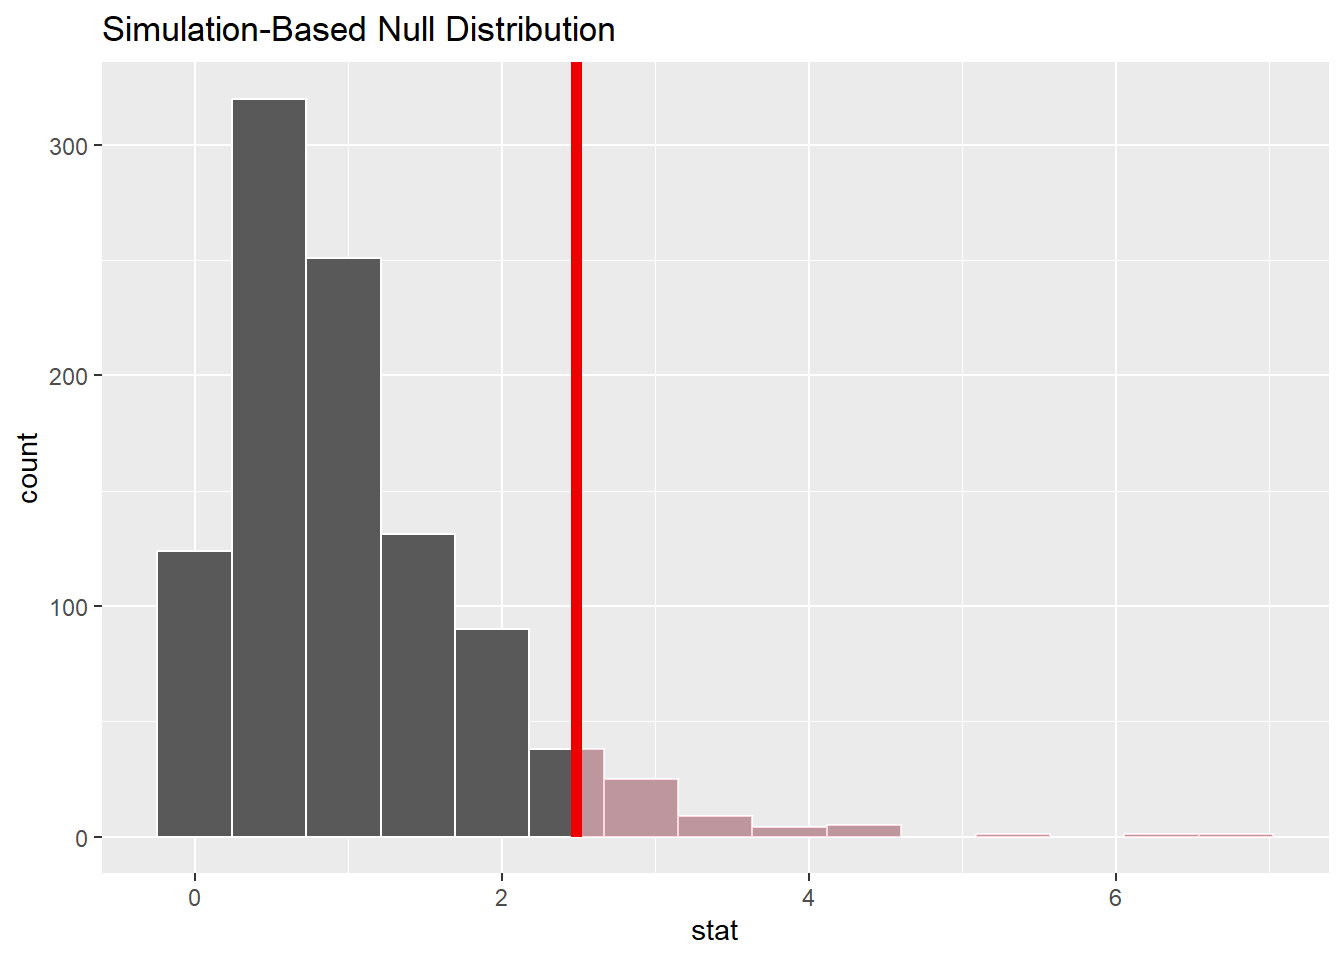
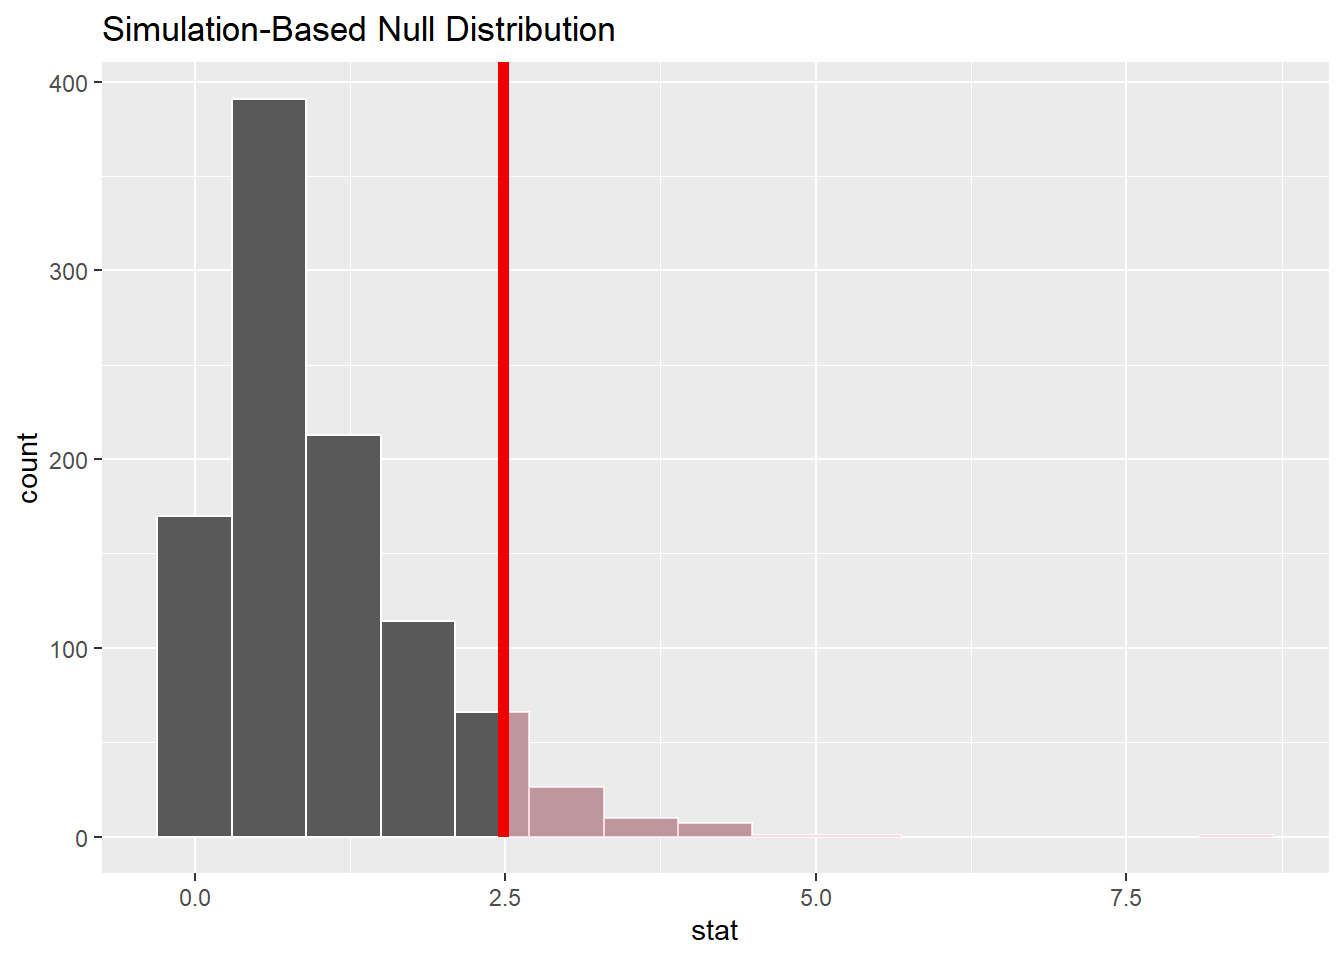
Ajout modèle théorique au lab10

diff --git a/docs/labs/lab10-tests-hypotheses/lab10-tests-hypotheses.html b/docs/labs/lab10-tests-hypotheses/lab10-tests-hypotheses.html
@@ -273,6 +273,7 @@ window.Quarto = {
   <ul class="collapse">
   <li><a href="#exercice-2" id="toc-exercice-2" class="nav-link" data-scroll-target="#exercice-2">Exercice</a></li>
   </ul></li>
+  <li><a href="#modèles-théoriques" id="toc-modèles-théoriques" class="nav-link" data-scroll-target="#modèles-théoriques">Modèles théoriques</a></li>
   <li><a href="#exercice---effet-de-la-cigarette-sur-la-grossesse" id="toc-exercice---effet-de-la-cigarette-sur-la-grossesse" class="nav-link" data-scroll-target="#exercice---effet-de-la-cigarette-sur-la-grossesse">Exercice - Effet de la cigarette sur la grossesse</a>
   <ul class="collapse">
   <li><a href="#les-données" id="toc-les-données" class="nav-link" data-scroll-target="#les-données">Les données</a></li>
@@ -412,16 +413,16 @@ Null Hypothesis: point
 # Groups:   replicate [1,000]
    replicate hours
        &lt;int&gt; &lt;dbl&gt;
- 1         1  18.6
- 2         1  42.6
- 3         1  25.6
- 4         1  13.6
- 5         1  33.6
- 6         1  38.6
- 7         1  86.6
- 8         1  38.6
- 9         1  30.6
-10         1  38.6
+ 1         1 37.6 
+ 2         1 68.6 
+ 3         1  2.62
+ 4         1 12.6 
+ 5         1 38.6 
+ 6         1 43.6 
+ 7         1 38.6 
+ 8         1 33.6 
+ 9         1 48.6 
+10         1 38.6 
 # ℹ 499,990 more rows</code></pre>
 </div>
 </div>
@@ -439,16 +440,16 @@ Null Hypothesis: point
 # A tibble: 1,000 × 2
    replicate  stat
        &lt;int&gt; &lt;dbl&gt;
- 1         1  40.8
- 2         2  39.7
- 3         3  39.1
- 4         4  39.9
- 5         5  40.4
- 6         6  40.1
- 7         7  40.5
- 8         8  38.5
- 9         9  40.6
-10        10  40.9
+ 1         1  40.3
+ 2         2  40.7
+ 3         3  40.3
+ 4         4  41.2
+ 5         5  40.3
+ 6         6  40.3
+ 7         7  40.8
+ 8         8  40.0
+ 9         9  40.1
+10        10  40.2
 # ℹ 990 more rows</code></pre>
 </div>
 </div>
@@ -502,7 +503,7 @@ Null Hypothesis: point
 <pre><code># A tibble: 1 × 1
   p_value
     &lt;dbl&gt;
-1    0.04</code></pre>
+1    0.03</code></pre>
 </div>
 </div>
 <p>Avant de faire ce test, nous aurions du définir un niveau de signification <span class="math inline">\(\alpha\)</span>. Si la valeur <span class="math inline">\(p\)</span> est inférieure à <span class="math inline">\(\alpha\)</span>, nous pouvons rejeter l’hypothèse nulle. En fixant <span class="math inline">\(\alpha = 0.05\)</span>, nous rejetons l’hypothèse nulle. En fixant <span class="math inline">\(\alpha = 0.01\)</span>, nous ne rejetons pas l’hypothèse nulle.</p>
@@ -529,7 +530,7 @@ Null Hypothesis: point
 <pre><code># A tibble: 1 × 2
   lower_ci upper_ci
      &lt;dbl&gt;    &lt;dbl&gt;
-1     40.1     42.7</code></pre>
+1     40.1     42.6</code></pre>
 </div>
 </div>
 <p>Ici, notez que dans la définition de <code>boot_dist</code>, nous n’avons pas défini d’hypothèse nulle. Cela signifie que nous générons une distribution de statistiques à partir de nos données sans hypothèse nulle. Nous utilisons ensuite cette distribution pour calculer l’intervalle de confiance.</p>
@@ -641,7 +642,7 @@ Explanatory: college (factor)
 <pre><code># A tibble: 1 × 1
   p_value
     &lt;dbl&gt;
-1   0.248</code></pre>
+1    0.26</code></pre>
 </div>
 </div>
 <section id="exercice-1" class="level2">
@@ -705,20 +706,15 @@ Explanatory: partyid (factor)
 <div class="cell">
 <div class="sourceCode cell-code" id="cb32"><pre class="sourceCode r code-with-copy"><code class="sourceCode r"><span id="cb32-1"><a href="#cb32-1" aria-hidden="true" tabindex="-1"></a>observed_f_statistic <span class="ot">&lt;-</span> gss <span class="sc">%&gt;%</span></span>
 <span id="cb32-2"><a href="#cb32-2" aria-hidden="true" tabindex="-1"></a>  <span class="fu">specify</span>(age <span class="sc">~</span> partyid) <span class="sc">%&gt;%</span></span>
-<span id="cb32-3"><a href="#cb32-3" aria-hidden="true" tabindex="-1"></a>  <span class="fu">hypothesize</span>(<span class="at">null =</span> <span class="st">"independence"</span>) <span class="sc">%&gt;%</span></span>
-<span id="cb32-4"><a href="#cb32-4" aria-hidden="true" tabindex="-1"></a>  <span class="fu">calculate</span>(<span class="at">stat =</span> <span class="st">"F"</span>)</span></code><button title="Copy to Clipboard" class="code-copy-button"><i class="bi"></i></button></pre></div>
-<div class="cell-output cell-output-stderr">
-<pre><code>Dropping unused factor levels DK from the supplied explanatory variable
-'partyid'.</code></pre>
-</div>
+<span id="cb32-3"><a href="#cb32-3" aria-hidden="true" tabindex="-1"></a>  <span class="fu">calculate</span>(<span class="at">stat =</span> <span class="st">"F"</span>)</span></code><button title="Copy to Clipboard" class="code-copy-button"><i class="bi"></i></button></pre></div>
 </div>
 <p>Nous voulons maintenant la comparer à celle obtenue sous l’hypothèse nulle. Dans un tableau ANOVA, l’hypothèse nulle est que les moyennes de chaque groupe sont égales. Faites à attention que dans ce cas, l’hypothèse alternative est <strong>qu’au moins une des moyennes est différente</strong>.</p>
 <div class="cell">
-<div class="sourceCode cell-code" id="cb34"><pre class="sourceCode r code-with-copy"><code class="sourceCode r"><span id="cb34-1"><a href="#cb34-1" aria-hidden="true" tabindex="-1"></a>null_dist_anova <span class="ot">&lt;-</span> gss <span class="sc">%&gt;%</span></span>
-<span id="cb34-2"><a href="#cb34-2" aria-hidden="true" tabindex="-1"></a>  <span class="fu">specify</span>(age <span class="sc">~</span> partyid) <span class="sc">%&gt;%</span></span>
-<span id="cb34-3"><a href="#cb34-3" aria-hidden="true" tabindex="-1"></a>  <span class="fu">hypothesize</span>(<span class="at">null =</span> <span class="st">"independence"</span>) <span class="sc">%&gt;%</span></span>
-<span id="cb34-4"><a href="#cb34-4" aria-hidden="true" tabindex="-1"></a>  <span class="fu">generate</span>(<span class="at">reps =</span> <span class="dv">1000</span>, <span class="at">type =</span> <span class="st">"permute"</span>) <span class="sc">%&gt;%</span></span>
-<span id="cb34-5"><a href="#cb34-5" aria-hidden="true" tabindex="-1"></a>  <span class="fu">calculate</span>(<span class="at">stat =</span> <span class="st">"F"</span>)</span></code><button title="Copy to Clipboard" class="code-copy-button"><i class="bi"></i></button></pre></div>
+<div class="sourceCode cell-code" id="cb33"><pre class="sourceCode r code-with-copy"><code class="sourceCode r"><span id="cb33-1"><a href="#cb33-1" aria-hidden="true" tabindex="-1"></a>null_dist_anova <span class="ot">&lt;-</span> gss <span class="sc">%&gt;%</span></span>
+<span id="cb33-2"><a href="#cb33-2" aria-hidden="true" tabindex="-1"></a>  <span class="fu">specify</span>(age <span class="sc">~</span> partyid) <span class="sc">%&gt;%</span></span>
+<span id="cb33-3"><a href="#cb33-3" aria-hidden="true" tabindex="-1"></a>  <span class="fu">hypothesize</span>(<span class="at">null =</span> <span class="st">"independence"</span>) <span class="sc">%&gt;%</span></span>
+<span id="cb33-4"><a href="#cb33-4" aria-hidden="true" tabindex="-1"></a>  <span class="fu">generate</span>(<span class="at">reps =</span> <span class="dv">1000</span>, <span class="at">type =</span> <span class="st">"permute"</span>) <span class="sc">%&gt;%</span></span>
+<span id="cb33-5"><a href="#cb33-5" aria-hidden="true" tabindex="-1"></a>  <span class="fu">calculate</span>(<span class="at">stat =</span> <span class="st">"F"</span>)</span></code><button title="Copy to Clipboard" class="code-copy-button"><i class="bi"></i></button></pre></div>
 <div class="cell-output cell-output-stderr">
 <pre><code>Dropping unused factor levels DK from the supplied explanatory variable
 'partyid'.</code></pre>
@@ -726,10 +722,10 @@ Explanatory: partyid (factor)
 </div>
 <p>Nous pouvons maintenant visualiser la distribution des statistiques générées et calculées.</p>
 <div class="cell">
-<div class="sourceCode cell-code" id="cb36"><pre class="sourceCode r code-with-copy"><code class="sourceCode r"><span id="cb36-1"><a href="#cb36-1" aria-hidden="true" tabindex="-1"></a>null_dist_anova <span class="sc">%&gt;%</span></span>
-<span id="cb36-2"><a href="#cb36-2" aria-hidden="true" tabindex="-1"></a>  <span class="fu">visualize</span>() <span class="sc">+</span> </span>
-<span id="cb36-3"><a href="#cb36-3" aria-hidden="true" tabindex="-1"></a>  <span class="fu">shade_p_value</span>(observed_f_statistic,</span>
-<span id="cb36-4"><a href="#cb36-4" aria-hidden="true" tabindex="-1"></a>                <span class="at">direction =</span> <span class="st">"greater"</span>)</span></code><button title="Copy to Clipboard" class="code-copy-button"><i class="bi"></i></button></pre></div>
+<div class="sourceCode cell-code" id="cb35"><pre class="sourceCode r code-with-copy"><code class="sourceCode r"><span id="cb35-1"><a href="#cb35-1" aria-hidden="true" tabindex="-1"></a>null_dist_anova <span class="sc">%&gt;%</span></span>
+<span id="cb35-2"><a href="#cb35-2" aria-hidden="true" tabindex="-1"></a>  <span class="fu">visualize</span>() <span class="sc">+</span> </span>
+<span id="cb35-3"><a href="#cb35-3" aria-hidden="true" tabindex="-1"></a>  <span class="fu">shade_p_value</span>(observed_f_statistic,</span>
+<span id="cb35-4"><a href="#cb35-4" aria-hidden="true" tabindex="-1"></a>                <span class="at">direction =</span> <span class="st">"greater"</span>)</span></code><button title="Copy to Clipboard" class="code-copy-button"><i class="bi"></i></button></pre></div>
 <div class="cell-output-display">
 <div>
 <figure class="figure">
@@ -740,23 +736,59 @@ Explanatory: partyid (factor)
 </div>
 <p>Et nous pouvons calculer la p-value:</p>
 <div class="cell">
-<div class="sourceCode cell-code" id="cb37"><pre class="sourceCode r code-with-copy"><code class="sourceCode r"><span id="cb37-1"><a href="#cb37-1" aria-hidden="true" tabindex="-1"></a><span class="co"># calculate the p value from the observed statistic and null distribution</span></span>
-<span id="cb37-2"><a href="#cb37-2" aria-hidden="true" tabindex="-1"></a>p_value <span class="ot">&lt;-</span> null_dist_anova <span class="sc">%&gt;%</span></span>
-<span id="cb37-3"><a href="#cb37-3" aria-hidden="true" tabindex="-1"></a>  <span class="fu">get_p_value</span>(<span class="at">obs_stat =</span> observed_f_statistic,</span>
-<span id="cb37-4"><a href="#cb37-4" aria-hidden="true" tabindex="-1"></a>              <span class="at">direction =</span> <span class="st">"greater"</span>)</span>
-<span id="cb37-5"><a href="#cb37-5" aria-hidden="true" tabindex="-1"></a></span>
-<span id="cb37-6"><a href="#cb37-6" aria-hidden="true" tabindex="-1"></a>p_value</span></code><button title="Copy to Clipboard" class="code-copy-button"><i class="bi"></i></button></pre></div>
+<div class="sourceCode cell-code" id="cb36"><pre class="sourceCode r code-with-copy"><code class="sourceCode r"><span id="cb36-1"><a href="#cb36-1" aria-hidden="true" tabindex="-1"></a><span class="co"># calculate the p value from the observed statistic and null distribution</span></span>
+<span id="cb36-2"><a href="#cb36-2" aria-hidden="true" tabindex="-1"></a>p_value <span class="ot">&lt;-</span> null_dist_anova <span class="sc">%&gt;%</span></span>
+<span id="cb36-3"><a href="#cb36-3" aria-hidden="true" tabindex="-1"></a>  <span class="fu">get_p_value</span>(<span class="at">obs_stat =</span> observed_f_statistic,</span>
+<span id="cb36-4"><a href="#cb36-4" aria-hidden="true" tabindex="-1"></a>              <span class="at">direction =</span> <span class="st">"greater"</span>)</span>
+<span id="cb36-5"><a href="#cb36-5" aria-hidden="true" tabindex="-1"></a></span>
+<span id="cb36-6"><a href="#cb36-6" aria-hidden="true" tabindex="-1"></a>p_value</span></code><button title="Copy to Clipboard" class="code-copy-button"><i class="bi"></i></button></pre></div>
 <div class="cell-output cell-output-stdout">
 <pre><code># A tibble: 1 × 1
   p_value
     &lt;dbl&gt;
-1   0.058</code></pre>
+1   0.064</code></pre>
 </div>
 </div>
 <section id="exercice-2" class="level2">
 <h2 class="anchored" data-anchor-id="exercice-2">Exercice</h2>
 <p>Testez si le nombre d’heures travaillées est différent selon le revenu moyen du foyer des participants. Utilisez un niveau de signification de 0.05. Quelle conclusion en tirez-vous ?</p>
 </section>
+</section>
+<section id="modèles-théoriques" class="level1">
+<h1>Modèles théoriques</h1>
+<p>Jusqu’ici, nous avons utilisé des méthodes de rééchantillonnage pour générer des distributions nulles. Cependant, pour certains tests statistiques, il existe des modèles théoriques qui décrivent la distribution nulle. Par exemple, dans le cas du test ANOVA, la statistique F suit une distribution F sous l’hypothèse nulle. Nous pouvons utiliser cette information pour calculer la p-value sans avoir à générer une distribution nulle.</p>
+<p>Pratiquement, il n’est pas nécessaire d’utiliser <code>generate()</code> et <code>calculate()</code> pour obtenir la distribution nulle. Nous pouvons directement utiliser la fonction <code>assume()</code></p>
+<div class="cell">
+<div class="sourceCode cell-code" id="cb38"><pre class="sourceCode r code-with-copy"><code class="sourceCode r"><span id="cb38-1"><a href="#cb38-1" aria-hidden="true" tabindex="-1"></a>null_f_distn_theoretical <span class="ot">&lt;-</span> gss <span class="sc">%&gt;%</span></span>
+<span id="cb38-2"><a href="#cb38-2" aria-hidden="true" tabindex="-1"></a>  <span class="fu">specify</span>(age <span class="sc">~</span> partyid) <span class="sc">%&gt;%</span></span>
+<span id="cb38-3"><a href="#cb38-3" aria-hidden="true" tabindex="-1"></a>  <span class="fu">assume</span>(<span class="at">distribution =</span> <span class="st">"F"</span>)</span></code><button title="Copy to Clipboard" class="code-copy-button"><i class="bi"></i></button></pre></div>
+</div>
+<p>Nous pouvons ensuite visualiser cette distribution théorique et ajouter la statistique observée.</p>
+<div class="cell">
+<div class="sourceCode cell-code" id="cb39"><pre class="sourceCode r code-with-copy"><code class="sourceCode r"><span id="cb39-1"><a href="#cb39-1" aria-hidden="true" tabindex="-1"></a><span class="fu">visualize</span>(null_f_distn_theoretical, <span class="at">method =</span> <span class="st">"theoretical"</span>) <span class="sc">+</span></span>
+<span id="cb39-2"><a href="#cb39-2" aria-hidden="true" tabindex="-1"></a>  <span class="fu">shade_p_value</span>(<span class="at">obs_stat =</span> observed_f_statistic, <span class="at">direction =</span> <span class="st">"greater"</span>)</span></code><button title="Copy to Clipboard" class="code-copy-button"><i class="bi"></i></button></pre></div>
+<div class="cell-output-display">
+<div>
+<figure class="figure">
+<p><img src="lab10-tests-hypotheses_files/figure-html/unnamed-chunk-27-1.png" class="img-fluid figure-img" width="672"></p>
+</figure>
+</div>
+</div>
+</div>
+<p>Et nous pouvons calculer la p-value:</p>
+<div class="cell">
+<div class="sourceCode cell-code" id="cb40"><pre class="sourceCode r code-with-copy"><code class="sourceCode r"><span id="cb40-1"><a href="#cb40-1" aria-hidden="true" tabindex="-1"></a>p_value <span class="ot">&lt;-</span> null_f_distn_theoretical <span class="sc">%&gt;%</span></span>
+<span id="cb40-2"><a href="#cb40-2" aria-hidden="true" tabindex="-1"></a>  <span class="fu">get_p_value</span>(<span class="at">obs_stat =</span> observed_f_statistic,</span>
+<span id="cb40-3"><a href="#cb40-3" aria-hidden="true" tabindex="-1"></a>              <span class="at">direction =</span> <span class="st">"greater"</span>)</span>
+<span id="cb40-4"><a href="#cb40-4" aria-hidden="true" tabindex="-1"></a></span>
+<span id="cb40-5"><a href="#cb40-5" aria-hidden="true" tabindex="-1"></a>p_value</span></code><button title="Copy to Clipboard" class="code-copy-button"><i class="bi"></i></button></pre></div>
+<div class="cell-output cell-output-stdout">
+<pre><code># A tibble: 1 × 1
+  p_value
+    &lt;dbl&gt;
+1  0.0601</code></pre>
+</div>
+</div>
 </section>
 <section id="exercice---effet-de-la-cigarette-sur-la-grossesse" class="level1">
 <h1>Exercice - Effet de la cigarette sur la grossesse</h1>
